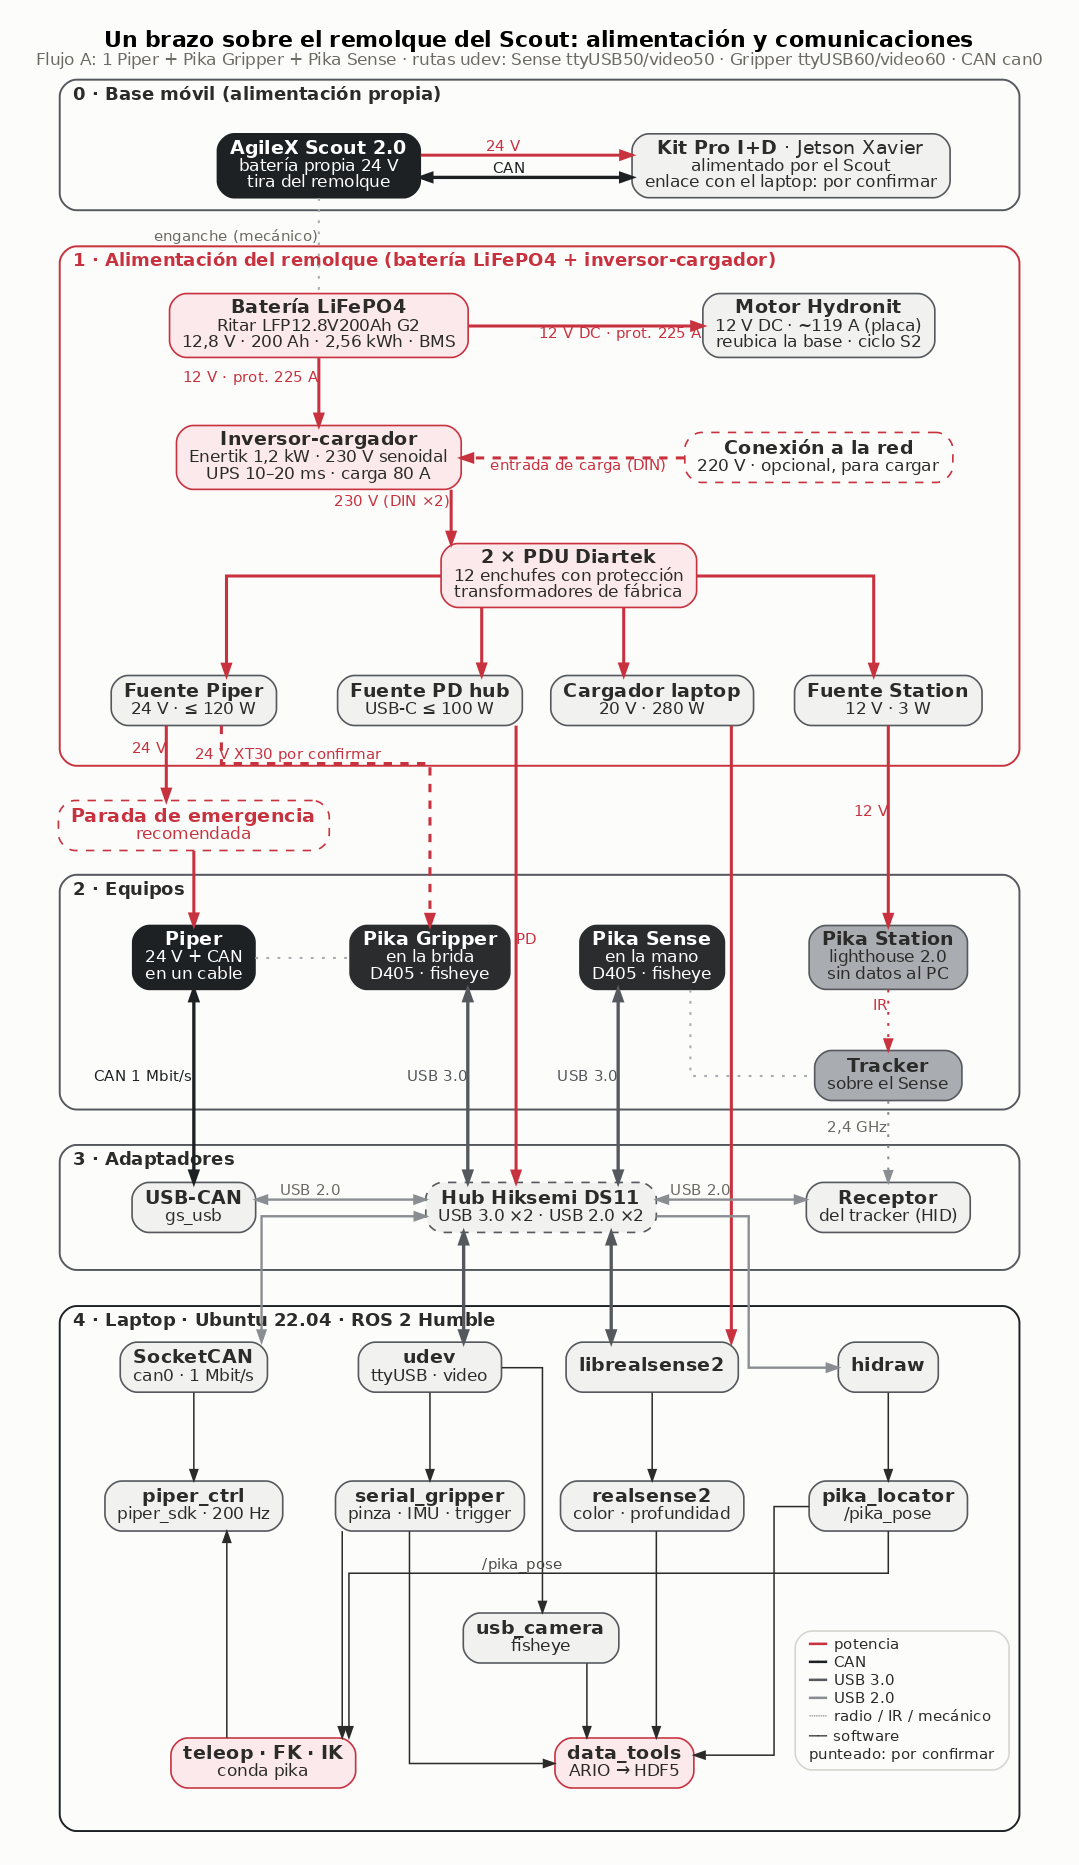
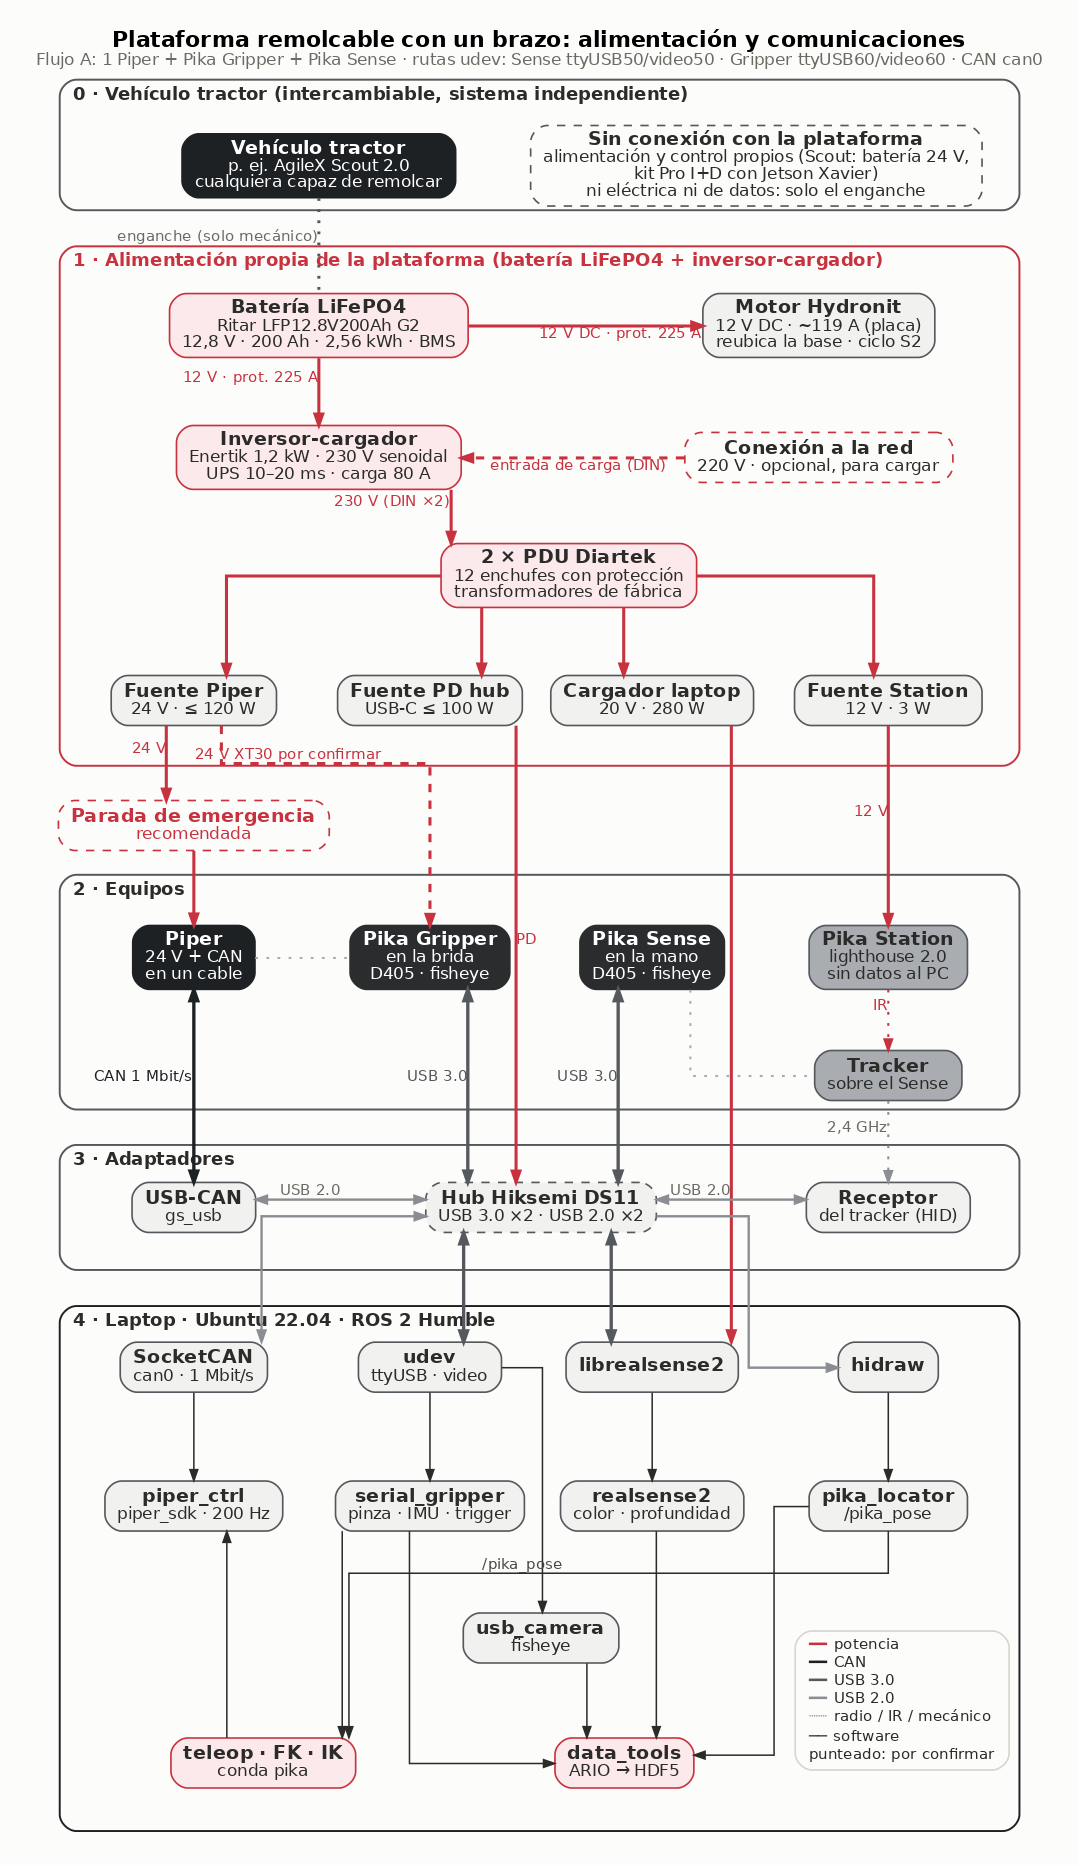
Plataforma remolcable: el vehiculo tractor es un sistema independiente
El vehiculo que remolca la plataforma (hoy un Scout 2.0 con su Jetson) no
comparte alimentacion ni datos con el brazo ni con su computador; la unica
union es el enganche mecanico, y cualquier vehiculo capaz de remolcarla debe
servir. Diagrama de un brazo, README de arquitectura y documento de energia
reescritos en ese sentido; se quita la nota "enlace Jetson-laptop por
confirmar".

Changed region(s): [[0.0918, 0.0, 0.8869, 0.1555], [0.7952, 0.0, 0.8869, 0.0311]]

diff --git a/docs/arquitectura/README.md b/docs/arquitectura/README.md
@@ -22,20 +22,25 @@ al comienzo del `.dot`. Las etiquetas de las flechas van en `xlabel`.
 
 Las líneas y bordes punteados marcan lo que está **por confirmar** o **recomendado y no instalado**.
 
-### Versión de un brazo, sobre el remolque del Scout
+### Versión de un brazo: plataforma remolcable
 
-![Un brazo sobre el remolque del Scout](arquitectura_un_brazo.png)
+![Plataforma remolcable con un brazo](arquitectura_un_brazo.png)
 
 [SVG](arquitectura_un_brazo.svg) · fuente [arquitectura_un_brazo.dot](arquitectura_un_brazo.dot). Para
 regenerarla: `python3 generar_diagrama.py arquitectura_un_brazo.dot`.
 
-Montaje del Flujo A: un Piper con Pika Gripper, Pika Sense y Pika Station, sobre un remolque que
-tira un **AgileX Scout 2.0**. Está dibujada angosta (~780 pt): al ancho de una página de 16 cm, los
+Montaje del Flujo A: un Piper con Pika Gripper, Pika Sense y Pika Station, sobre una **plataforma
+remolcable y autónoma**. Está dibujada angosta (~780 pt): al ancho de una página de 16 cm, los
 títulos quedan en ~8 pt y los detalles en ~7 pt.
 
-Alimentación, según el esquema eléctrico de la plataforma (20-10-2026):
-- **Scout 2.0:** se alimenta con su propia batería de 24 V, junto con el kit Pro I+D (Jetson Xavier). No alimenta nada del remolque.
-- **Remolque** (equipos comprados y montados en la plataforma): una **batería LiFePO4 Ritar LFP12.8V200Ah G2** (12,8 V, 200 Ah, 2,56 kWh, BMS) con dos ramas, cada una protegida con 225 A:
+**El vehículo tractor es un sistema independiente.** La plataforma tiene su propia alimentación y
+su propio computador, y no comparte ni energía ni datos con el vehículo que la remolca: la única
+unión es el enganche mecánico. Hoy la tira un AgileX Scout 2.0, que tiene su batería de 24 V y su
+kit Pro I+D (Jetson Xavier) para su propio control. Pero la idea es que **cualquier vehículo capaz
+de remolcarla** sirva, sin cambiar nada en la plataforma.
+
+Alimentación de la plataforma, según su esquema eléctrico (20-10-2026), con los equipos comprados y montados:
+- **Batería LiFePO4 Ritar LFP12.8V200Ah G2** (12,8 V, 200 Ah, 2,56 kWh, BMS), con dos ramas, cada una protegida con 225 A:
   - el **motor Hydronit**, conectado directo en 12 V DC (~119 A según placa, ciclo intermitente S2);
   - el **inversor-cargador Enertik IVMDPP-1.5K-12**: 1200 W solo con batería, 230 V senoidal, conmutación UPS de 10–20 ms, cargador AC de 80 A. La conexión a la red es opcional y solo para cargar.
 - **Equipos:** del inversor, por interruptores DIN, a **2 PDU Diartek** de 12 enchufes con protección, donde todo se conecta con su transformador de fábrica.
@@ -44,7 +49,6 @@ Balance de corrientes y autonomía: [Consumo_Energia.md, sección 4](../energia/
 
 Por confirmar:
 - la corriente máxima de descarga de la Ritar G2 (su ficha no la publica; ver el aviso en el documento de energía);
-- si hay enlace de datos entre la Jetson del Scout y el laptop;
 - la fuente de 24 V del Pika Gripper (ver la sección 4).
 
 ## 1. Alimentación

diff --git a/docs/energia/Consumo_Energia.md b/docs/energia/Consumo_Energia.md
@@ -109,7 +109,7 @@ El equipo de cómputo (laptop o mini PC que ejecuta ROS 2, `colcon`, y los nodos
 
 ## 4. Plataforma del remolque (batería e inversor)
 
-Esquema eléctrico de la plataforma que tira el Scout 2.0 (montaje de un brazo, 20-10-2026). La batería y el inversor-cargador de esta tabla son **los equipos comprados y montados en la plataforma**; los datos salen de sus fichas de venta. Diagrama en [docs/arquitectura](../arquitectura/README.md#versión-de-un-brazo-sobre-el-remolque-del-scout).
+Esquema eléctrico de la plataforma remolcable (montaje de un brazo, 20-10-2026). La plataforma es autónoma: el vehículo que la remolca (hoy un Scout 2.0) tiene su propia alimentación y no le entrega energía. La batería y el inversor-cargador de esta tabla son **los equipos comprados y montados en la plataforma**; los datos salen de sus fichas de venta. Diagrama en [docs/arquitectura](../arquitectura/README.md#versión-de-un-brazo-plataforma-remolcable).
 
 | Elemento | Dato | Origen |
 | --- | --- | --- |
